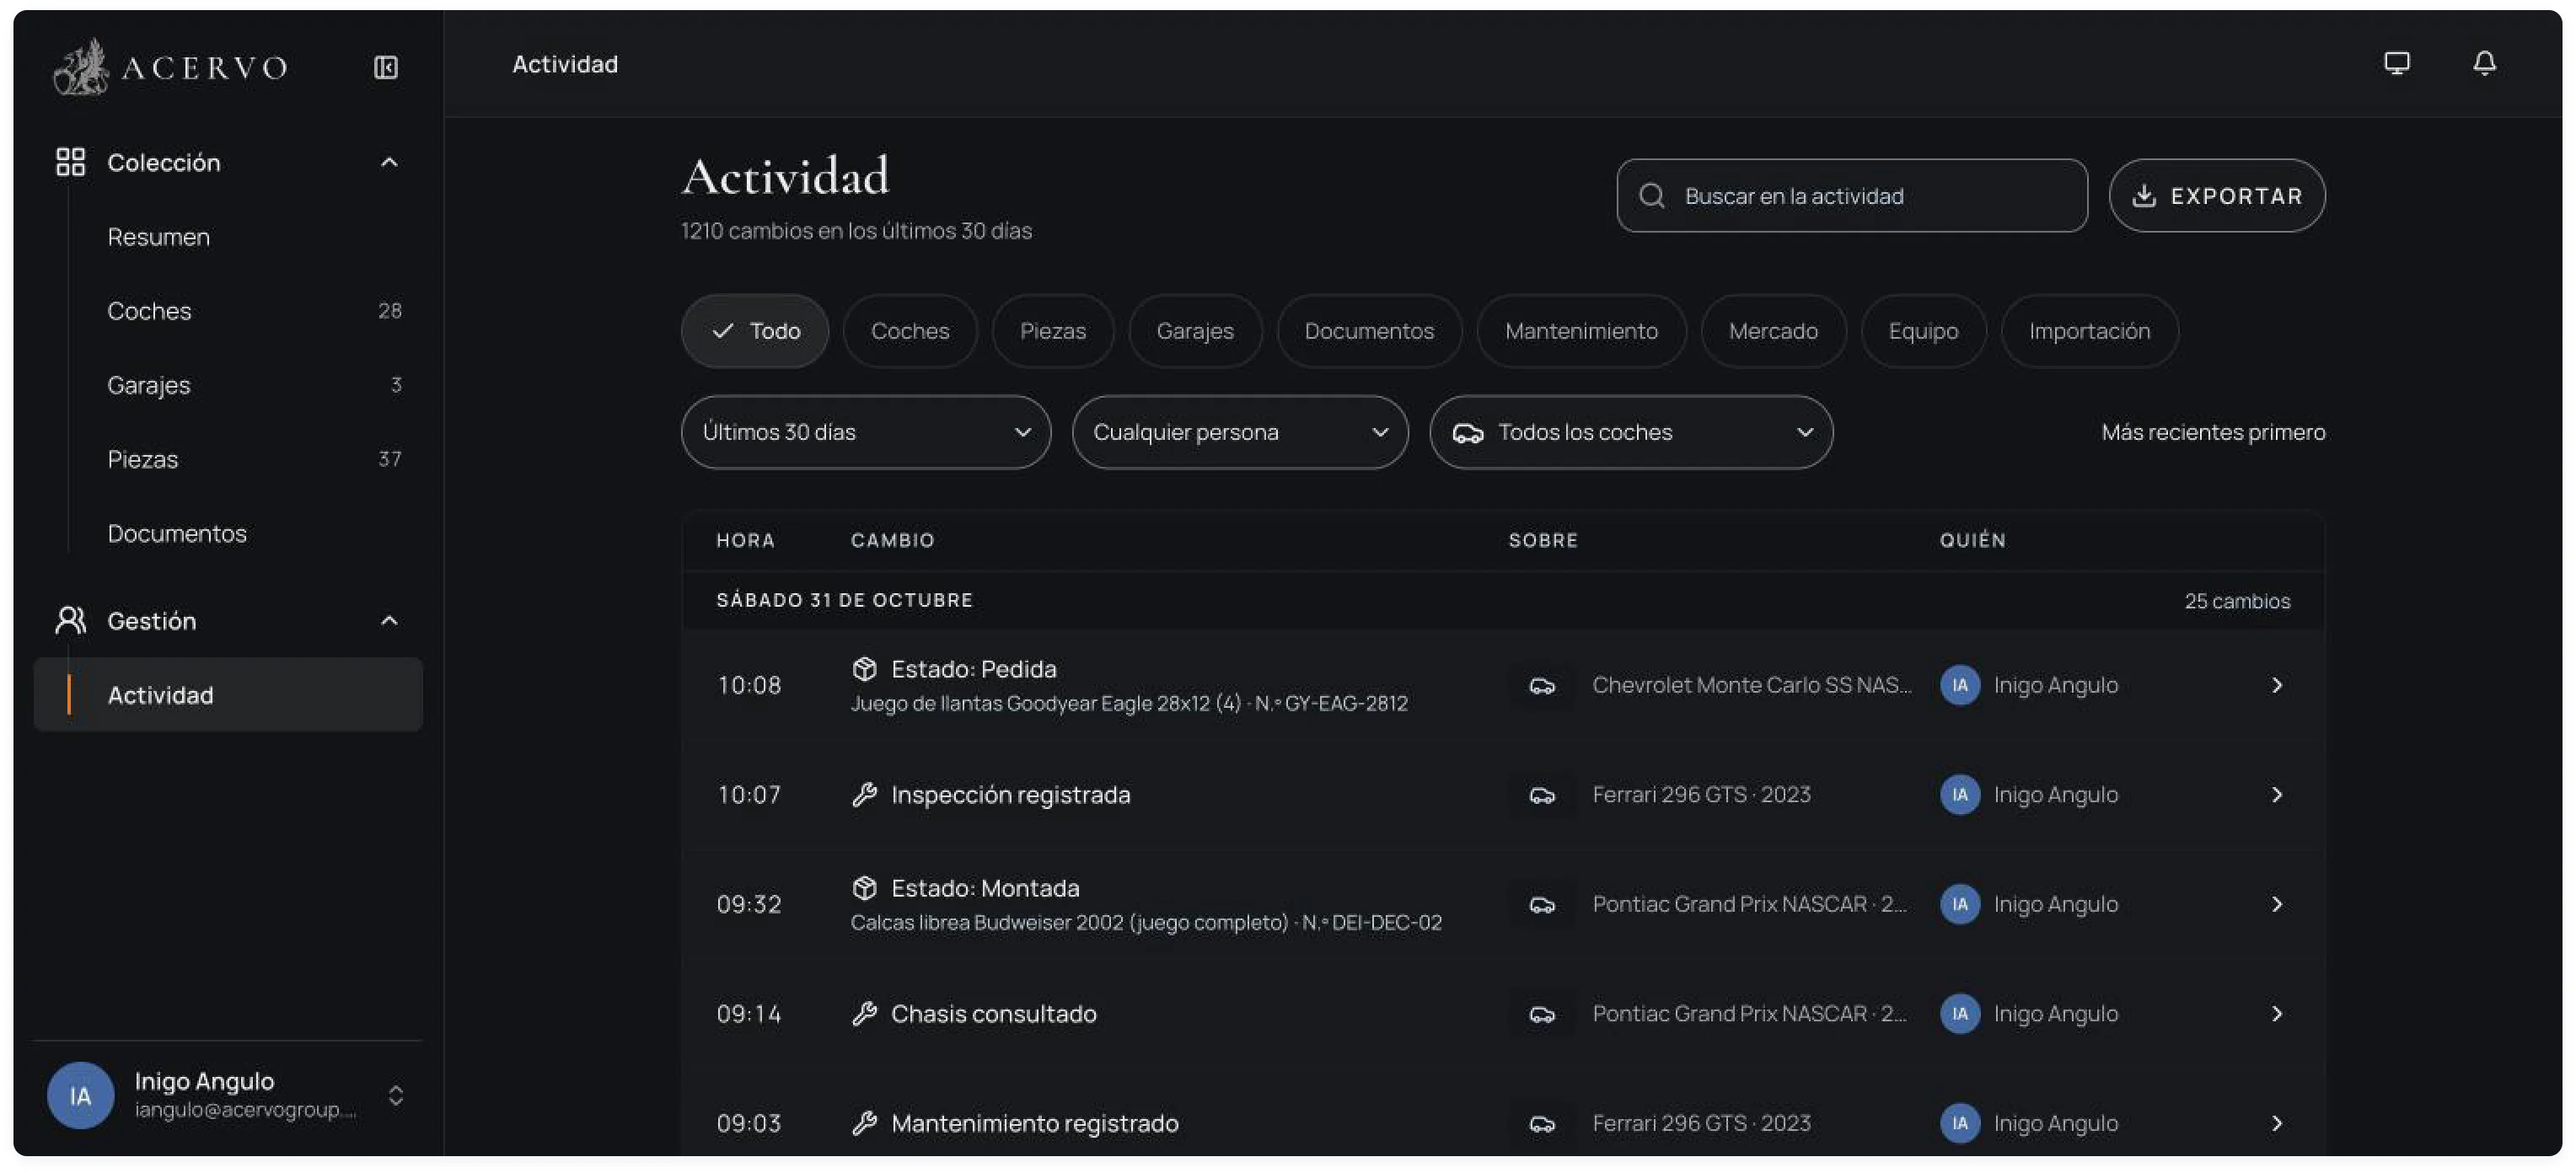
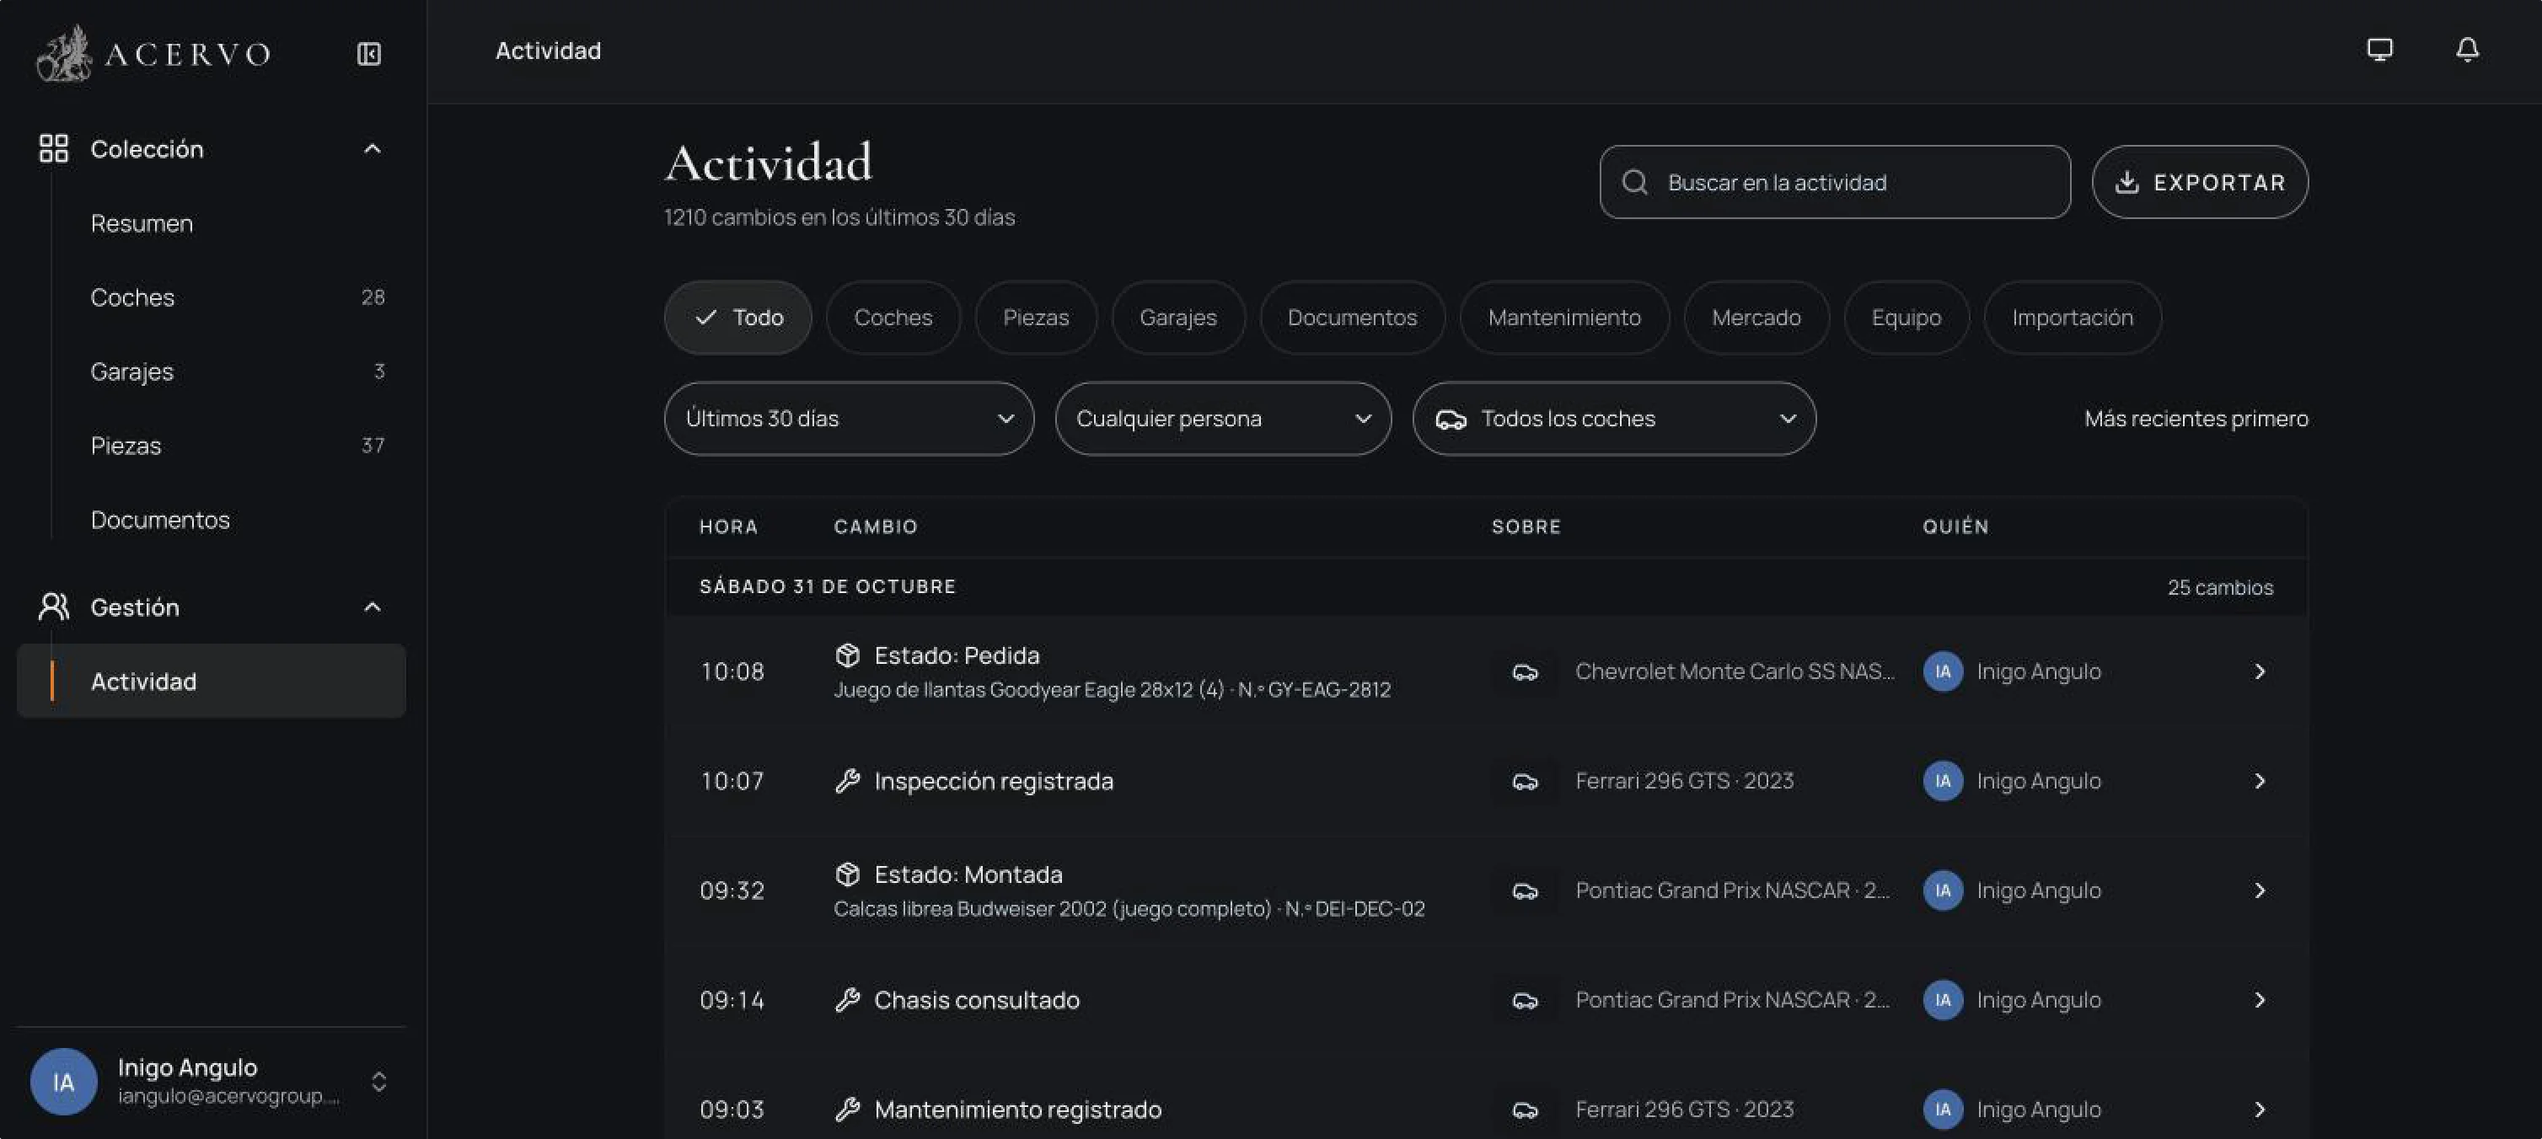
Acervo screenshots: crop the baked Figma border and corner radius
Claude-Session: https://claude.ai/code/session_01HvDhLU7zv1GEaTFUNL8YVh

diff --git a/work/acervo.html b/work/acervo.html
@@ -253,7 +253,7 @@
   <!-- Hero visual -->
   <div class="cs__img cs__img--wide" data-reveal><img src="../img/acervo/header.webp" alt="Acervo: a digital garage for car collectors" width="2374" height="1118"></div>
 
-  <div class="cs__img" data-reveal><img src="../img/acervo/cars-dark.webp" alt="Acervo in production: the cars gallery with filters by status" width="3056" height="1392"></div>
+  <div class="cs__img" data-reveal><img src="../img/acervo/cars-dark.webp" alt="Acervo in production: the cars gallery with filters by status" width="3016" height="1352"></div>
   <p class="cs__img-cap">Production, November 2026. The collection, filtered the way an owner thinks: favourites, in the workshop, lent, for sale, with pending items, history.</p>
 
   <!-- 01: Context -->
@@ -343,12 +343,12 @@
   </div>
 
   <div class="cs__screens" data-reveal>
-    <div class="cs__screen"><img src="../img/acervo/passport-desktop.webp" loading="lazy" alt="Car passport in production: Ferrari 296 GTS gallery, garage, documents, parts, history" width="3056" height="1392"><span class="cs__screen-label">Passport &#183; gallery, garage, documents, parts, history, report export</span></div>
-    <div class="cs__screen"><img src="../img/acervo/activity.webp" loading="lazy" alt="Activity log in production: 1210 changes in 30 days, each tied to a person and a car" width="3056" height="1392"><span class="cs__screen-label">Activity &#183; 1,210 changes in 30 days, each with who and on what</span></div>
+    <div class="cs__screen"><img src="../img/acervo/passport-desktop.webp" loading="lazy" alt="Car passport in production: Ferrari 296 GTS gallery, garage, documents, parts, history" width="3016" height="1352"><span class="cs__screen-label">Passport &#183; gallery, garage, documents, parts, history, report export</span></div>
+    <div class="cs__screen"><img src="../img/acervo/activity.webp" loading="lazy" alt="Activity log in production: 1210 changes in 30 days, each tied to a person and a car" width="3016" height="1352"><span class="cs__screen-label">Activity &#183; 1,210 changes in 30 days, each with who and on what</span></div>
   </div>
   <div class="cs__screens" data-reveal>
-    <div class="cs__screen"><img src="../img/acervo/import.webp" loading="lazy" alt="Import my collection: drop folders, photos and spreadsheets" width="3056" height="1392"><span class="cs__screen-label">Import &#183; folders, photos and spreadsheets, one folder per car</span></div>
-    <div class="cs__screen"><img src="../img/acervo/cars-light.webp" loading="lazy" alt="Cars gallery in light mode" width="3056" height="1392"><span class="cs__screen-label">Light mode &#183; the brand&#8217;s ivory canvas, same components</span></div>
+    <div class="cs__screen"><img src="../img/acervo/import.webp" loading="lazy" alt="Import my collection: drop folders, photos and spreadsheets" width="3016" height="1352"><span class="cs__screen-label">Import &#183; folders, photos and spreadsheets, one folder per car</span></div>
+    <div class="cs__screen"><img src="../img/acervo/cars-light.webp" loading="lazy" alt="Cars gallery in light mode" width="3004" height="1344"><span class="cs__screen-label">Light mode &#183; the brand&#8217;s ivory canvas, same components</span></div>
   </div>
   <p class="cs__img-cap">Production, November 2, 2026. The collection shown is my own test set; the first family collection is loading behind it.</p>
 
